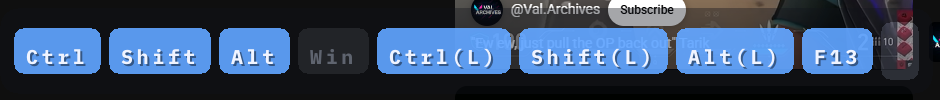
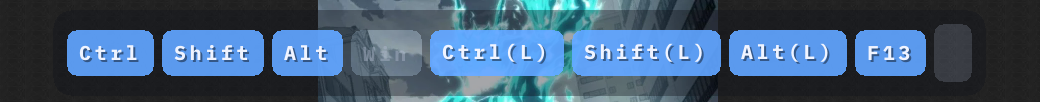
fix: centre the strip on screen and centre each label in its cap
The row was glued to the bottom-left corner and glyph baselines used font ascent, which carries
ascender space the overlay never draws, so labels sat a few pixels low. The strip is now blitted
centred per frame (Frame::blit_region copies just the painted box), and Face::ink measures outline
bounds so baseline_for centres the label's own ink in the keycap.

Measured: caps x 507..1411 of 1920 (margins 507/508); glyph ink rows 973..987, centre 980 vs cap
box centre 981.

diff --git a/src/overlay.rs b/src/overlay.rs
@@ -132,22 +132,28 @@ impl Frame {
     }
 
     /// Copy `src` on top of this frame at `x`/`y`, clipped. Plain copy of already premultiplied
-    /// pixels: the caller clears first, so there is nothing underneath to blend with.
-    pub fn blit(&mut self, src: &Frame, x: i32, y: i32) {
-        for row in 0..src.h as i32 {
-            let target = y + row;
-            if target < 0 || target >= self.h as i32 {
+    /// Copy `region` of `src` so its top-left lands at (`x`, `y`), clipped on both sides. Plain
+    /// copy of already-premultiplied pixels: the caller clears first, so there is nothing
+    /// underneath to blend with. Lets a wide canvas carry only the part with content, which is
+    /// how the strip gets centred on screen.
+    pub fn blit_region(&mut self, src: &Frame, x: i32, y: i32, region: Rect) {
+        let right = (region.x + region.w).min(src.w);
+        let bottom = (region.y + region.h).min(src.h);
+        for row in region.y..bottom {
+            let target_y = y + (row - region.y) as i32;
+            if target_y < 0 || target_y >= self.h as i32 {
                 continue;
             }
-            let first = (x.max(0)) as usize;
-            let last = (x + src.w as i32).min(self.w as i32) as usize;
-            if first >= last {
+            let dest_of_left = x;
+            let dest_left = dest_of_left.max(0);
+            let dest_right = (x + (right - region.x) as i32).min(self.w as i32);
+            if dest_left >= dest_right {
                 continue;
             }
-            let skip = (first as i32 - x) as usize * 4;
-            let from = (row as usize * src.w as usize) * 4 + skip;
-            let bytes = (last - first) * 4;
-            let to = (target as usize * self.w as usize + first) * 4;
+            let src_x = region.x + (dest_left - dest_of_left) as u32;
+            let from = (row as usize * src.w as usize + src_x as usize) * 4;
+            let bytes = (dest_right - dest_left) as usize * 4;
+            let to = (target_y as usize * self.w as usize + dest_left as usize) * 4;
             self.px[to..to + bytes].copy_from_slice(&src.px[from..from + bytes]);
         }
     }
@@ -438,7 +444,17 @@ mod tests {
                 a: 255,
             },
         );
-        frame.blit(&patch, 4, 2);
+        frame.blit_region(
+            &patch,
+            4,
+            2,
+            Rect {
+                x: 0,
+                y: 0,
+                w: patch.w,
+                h: patch.h,
+            },
+        );
         assert_eq!(
             pixel(&frame, 5, 3),
             [0, 255, 0, 255],
@@ -449,13 +465,33 @@ mod tests {
             [0, 0, 0, 0],
             "left of the patch untouched"
         );
-        frame.blit(&patch, -1, -1);
+        frame.blit_region(
+            &patch,
+            -1,
+            -1,
+            Rect {
+                x: 0,
+                y: 0,
+                w: patch.w,
+                h: patch.h,
+            },
+        );
         assert_eq!(
             pixel(&frame, 1, 1),
             [0, 255, 0, 255],
             "negative origin clips"
         );
-        frame.blit(&patch, 100, 100);
+        frame.blit_region(
+            &patch,
+            100,
+            100,
+            Rect {
+                x: 0,
+                y: 0,
+                w: patch.w,
+                h: patch.h,
+            },
+        );
         assert_eq!(
             pixel(&frame, 5, 3),
             [0, 255, 0, 255],
@@ -675,6 +711,98 @@ mod tests {
         assert_eq!(pixel(&frame, 3, 1), [0, 0, 0, 0]);
         frame.clear();
         assert_eq!(pixel(&frame, 1, 1), [0, 0, 0, 0]);
+    }
+
+    #[test]
+    fn blit_region_copies_only_the_requested_part() {
+        let mut src = Frame::new(6, 2);
+        src.fill_rect(
+            Rect {
+                x: 0,
+                y: 0,
+                w: 6,
+                h: 2,
+            },
+            Rgba {
+                r: 0,
+                g: 0,
+                b: 255,
+                a: 255,
+            },
+        );
+        src.fill_rect(
+            Rect {
+                x: 2,
+                y: 0,
+                w: 3,
+                h: 2,
+            },
+            Rgba {
+                r: 9,
+                g: 8,
+                b: 7,
+                a: 255,
+            },
+        );
+        let mut dst = Frame::new(10, 3);
+        dst.blit_region(
+            &src,
+            5,
+            1,
+            Rect {
+                x: 2,
+                y: 0,
+                w: 3,
+                h: 2,
+            },
+        );
+        assert_eq!(
+            pixel(&dst, 5, 1),
+            [7, 8, 9, 255],
+            "region starts at the requested column"
+        );
+        assert_eq!(pixel(&dst, 7, 1), [7, 8, 9, 255]);
+        assert_eq!(pixel(&dst, 8, 1), [0, 0, 0, 0], "and stops with the region");
+        assert_eq!(
+            pixel(&dst, 0, 1),
+            [0, 0, 0, 0],
+            "rest of the canvas untouched"
+        );
+        let mut clip = Frame::new(4, 3);
+        clip.blit_region(
+            &src,
+            -2,
+            0,
+            Rect {
+                x: 0,
+                y: 0,
+                w: 6,
+                h: 2,
+            },
+        );
+        assert_eq!(
+            pixel(&clip, 0, 0),
+            [7, 8, 9, 255],
+            "clipped on the left keeps the tail"
+        );
+        assert_eq!(pixel(&clip, 3, 0), [255, 0, 0, 255], "BGRA, blue");
+        let mut off = Frame::new(4, 4);
+        off.blit_region(
+            &src,
+            -6,
+            0,
+            Rect {
+                x: 0,
+                y: 0,
+                w: 6,
+                h: 2,
+            },
+        );
+        assert_eq!(
+            pixel(&off, 0, 0),
+            [0, 0, 0, 0],
+            "fully off-canvas copy paints nothing"
+        );
     }
 
     #[test]

diff --git a/src/text.rs b/src/text.rs
@@ -23,9 +23,34 @@ impl<'font> Face<'font> {
         Ok(Self { font, units_per_em })
     }
 
-    /// Distance from baseline to cap top, used to centre text vertically in a keycap.
-    pub fn ascent(&self, pixel: f32) -> f32 {
-        self.font.ascent_unscaled() * pixel / self.units_per_em
+    /// Ink extents of `text` relative to its baseline, as (above, below), both positive.
+    ///
+    /// Outline bounds only, no rasterising, so a layout pass can ask before drawing.
+    pub fn ink(&self, pixel: f32, text: &str) -> (f32, f32) {
+        let mut pen = 0.0f32;
+        let (mut top, mut bottom) = (0.0f32, 0.0f32);
+        for ch in text.chars() {
+            let id = self.font.glyph_id(ch);
+            if let Some(outline) = self
+                .font
+                .outline_glyph(id.with_scale_and_position(pixel, point(pen, 0.0)))
+            {
+                let bounds = outline.px_bounds();
+                top = top.min(bounds.min.y);
+                bottom = bottom.max(bounds.max.y);
+            }
+            pen += self.font.h_advance_unscaled(id) * pixel / self.units_per_em;
+        }
+        (-top, bottom)
+    }
+
+    /// Baseline that centres the ink of `text` inside `height` starting at `top`.
+    ///
+    /// Measuring the label rather than trusting font ascent is what makes capitals, digits and
+    /// lowercase look centred: font metrics carry ascender space the overlay never draws.
+    pub fn baseline_for(&self, pixel: f32, top: u32, height: u32, text: &str) -> i32 {
+        let (above, below) = self.ink(pixel, text);
+        (top as f32 + height as f32 / 2.0 + (above - below) / 2.0) as i32
     }
 
     /// Advance width of `text` at `pixel` size. Kerning is skipped: the bundled face is mono.
@@ -113,10 +138,10 @@ mod tests {
     #[test]
     fn font_loads_and_has_usable_metrics() {
         let face = face();
+        let (above, below) = face.ink(32.0, "H");
         assert!(
-            (face.ascent(32.0) - 24.0).abs() < 12.0,
-            "ascent sanity: {}",
-            face.ascent(32.0)
+            above > 12.0 && below < 4.0,
+            "cap sits above the baseline: {above} {below}"
         );
         let wide = face.width("WWWW", 32.0);
         let narrow = face.width("W", 32.0);
@@ -139,6 +164,56 @@ mod tests {
         assert!(inked(&frame) > 50, "glyph produced no coverage");
         assert!(right > 4 && right < 60, "right edge {right}");
         assert!(face.width("A", 32.0) > 0.0);
+    }
+
+    /// Rows that contain glyph ink of `colour`, used to measure where text actually landed.
+    fn ink_rows(frame: &Frame) -> (u32, u32) {
+        let rows = frame
+            .px
+            .as_chunks::<4>()
+            .0
+            .iter()
+            .enumerate()
+            .filter(|(_, px)| px[3] > 40)
+            .map(|(i, _)| (i / frame.w as usize) as u32);
+        let mut rows = rows.peekable();
+        let first = rows.next().expect("ink expected");
+        let mut last = first;
+        for row in rows {
+            last = row;
+        }
+        (first, last)
+    }
+
+    #[test]
+    fn baseline_for_centres_the_ink_of_the_label() {
+        let face = Face::new(FONT_BYTES).expect("embedded font");
+        for label in ["H", "Ctrl", "1", "PgUp"] {
+            let pixel = 30.0;
+            let (top, height) = (10u32, 58u32);
+            let mut frame = Frame::new(220, 90);
+            let baseline = face.baseline_for(pixel, top, height, label);
+            face.draw(
+                &mut frame,
+                4,
+                baseline,
+                pixel,
+                label,
+                Rgba {
+                    r: 255,
+                    g: 255,
+                    b: 255,
+                    a: 255,
+                },
+            );
+            let (first, last) = ink_rows(&frame);
+            let above = first as i32 - top as i32;
+            let below = (top + height) as i32 - last as i32 - 1;
+            assert!(
+                (above - below).abs() <= 2,
+                "{label}: {above} above vs {below} below (baseline {baseline})"
+            );
+        }
     }
 
     #[test]

diff --git a/src/main.rs b/src/main.rs
@@ -329,13 +329,12 @@ fn overlay_mode(
     };
 
     let panel_h = layout.row_height() + layout.pad * 2;
-    let anchor_x = 0i32;
     let anchor_y = (screen_h - panel_h as i32 - (56.0 * scale) as i32).max(0);
 
     let mut panel = Frame::new(screen_w as u32, panel_h);
     let mut canvas = Frame::new(screen_w as u32, screen_h as u32);
     println!(
-        "overlay {screen_w}x{screen_h} canvas, panel {screen_w}x{panel_h} at y {anchor_y} | scale {scale:.2} window {:.2} aware_set {aware}",
+        "overlay {screen_w}x{screen_h} canvas, strip {screen_w}x{panel_h} band at y {anchor_y} (centred per frame) | scale {scale:.2} window {:.2} aware_set {aware}",
         window.scale()
     );
     println!("clicks pass through: hold keys, click anywhere for a ripple.");
@@ -384,9 +383,14 @@ fn overlay_mode(
         }
 
         let work = Instant::now();
-        render::render_panel(&mut panel, &scene, &face, &layout, now, &timing);
+        let bounds = render::render_panel(&mut panel, &scene, &face, &layout, now, &timing);
         canvas.clear();
-        canvas.blit(&panel, anchor_x, anchor_y);
+        if let Some(boxed) = bounds {
+            // Bottom-centre: the painted box is only as wide as its content, so the row slides as
+            // caps come and go. Corner presets are a phase 4 setting.
+            let anchor_x = (canvas.w as i32 - boxed.w as i32) / 2;
+            canvas.blit_region(&panel, anchor_x, anchor_y, boxed);
+        }
         render::draw_ripples(&mut canvas, &scene, &layout, now, &timing);
         if let Err(err) = window.present(&canvas) {
             eprintln!("overlay: present failed: {err}");

diff --git a/src/render.rs b/src/render.rs
@@ -168,9 +168,8 @@ pub fn render_panel(
     frame.fill_round_rect(panel, layout.radius * 2, PANEL);
 
     let cap_top = layout.pad + (layout.row_height() - layout.cap_height) / 2;
-    let baseline =
-        (cap_top as f32 + (layout.cap_height as f32 + face.ascent(layout.font_px)) / 2.0) as i32;
     for slot in &slots {
+        let baseline = face.baseline_for(layout.font_px, cap_top, layout.cap_height, slot.label);
         let box_colour = slot.alpha.map_or(CAP_IDLE, |alpha| dim(CAP_LIT, alpha));
         frame.fill_round_rect(
             Rect {

diff --git a/PLAN.md b/PLAN.md
@@ -172,6 +172,16 @@ screenshot diff vs no-overlay shot -> panel x 0..932 y 938..1024, caps at x 14-1
                                        -> docs/phase3-panel.png
 ```
 
+Layout anchor is bottom-centre: the strip is only as wide as its content and is blitted centred
+per frame, so the row slides sideways as caps come and go (keyviz behaviour; corner presets are a
+phase 4 setting). Labels are centred by measured ink, not font ascent — `Face::ink` reads outline
+bounds and `baseline_for` centres that box in the keycap.
+
+```
+caps x 507..1411 of 1920   -> left margin 507, right margin 508 (centred)
+glyph ink rows 973..987    -> centre 980 vs cap box centre 981
+```
+
 Still open for phase 3: recorded GIF, 150 % DPI screenshot, themes beyond the one built-in
 palette, and the optional hold-to-confirm ring.
 
